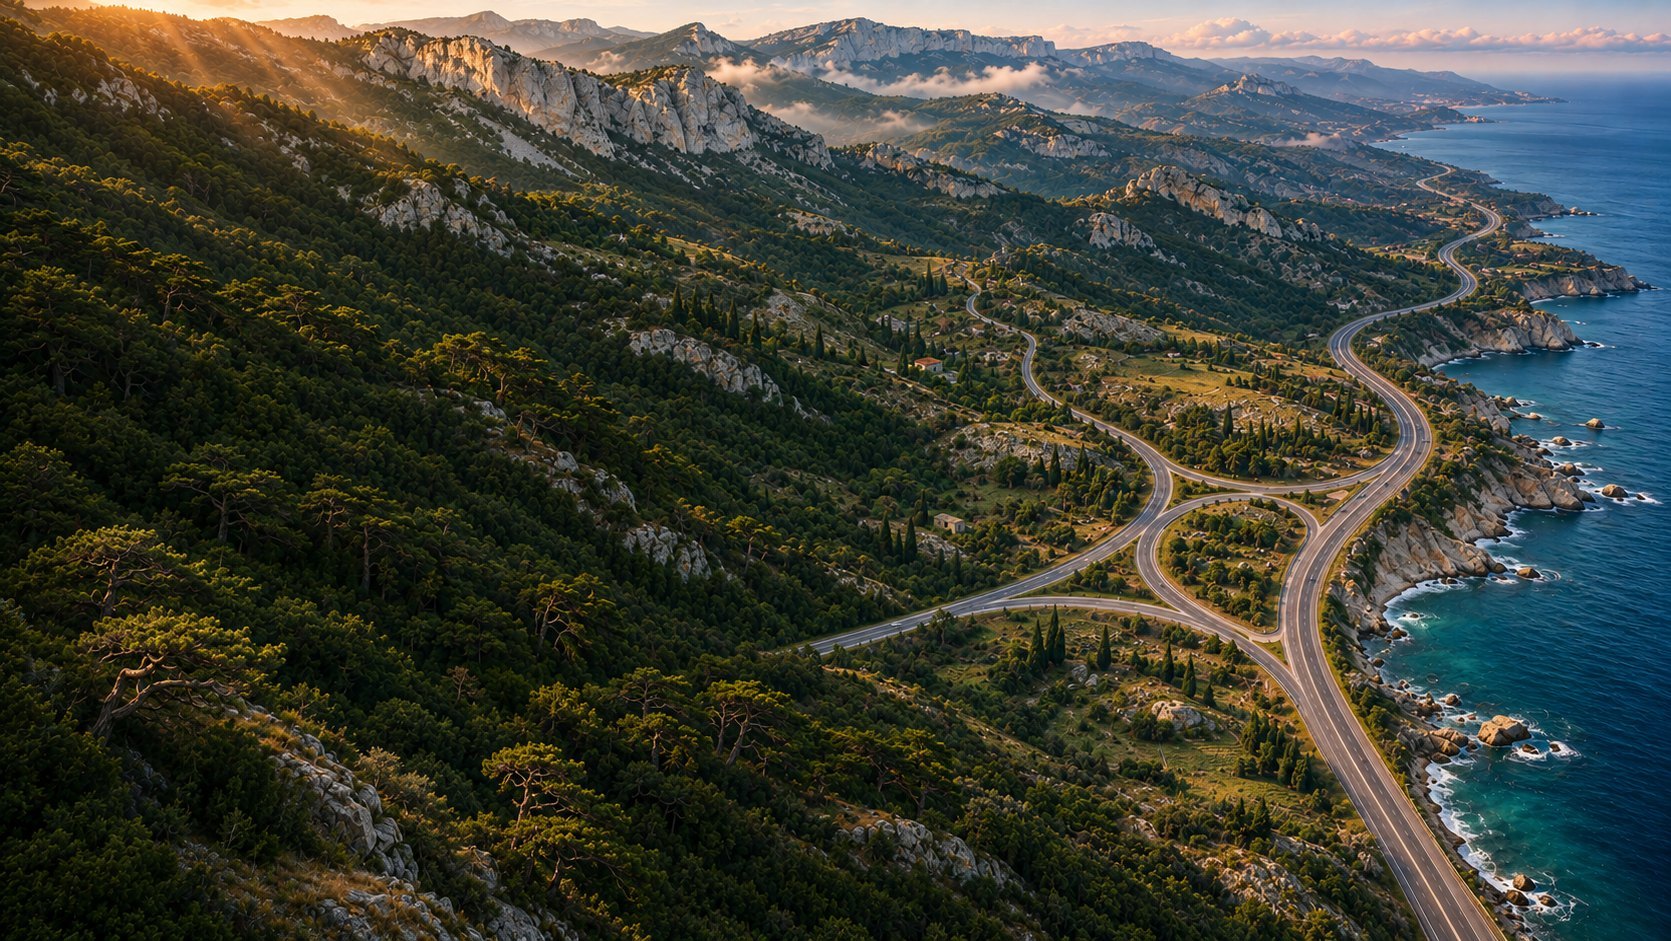
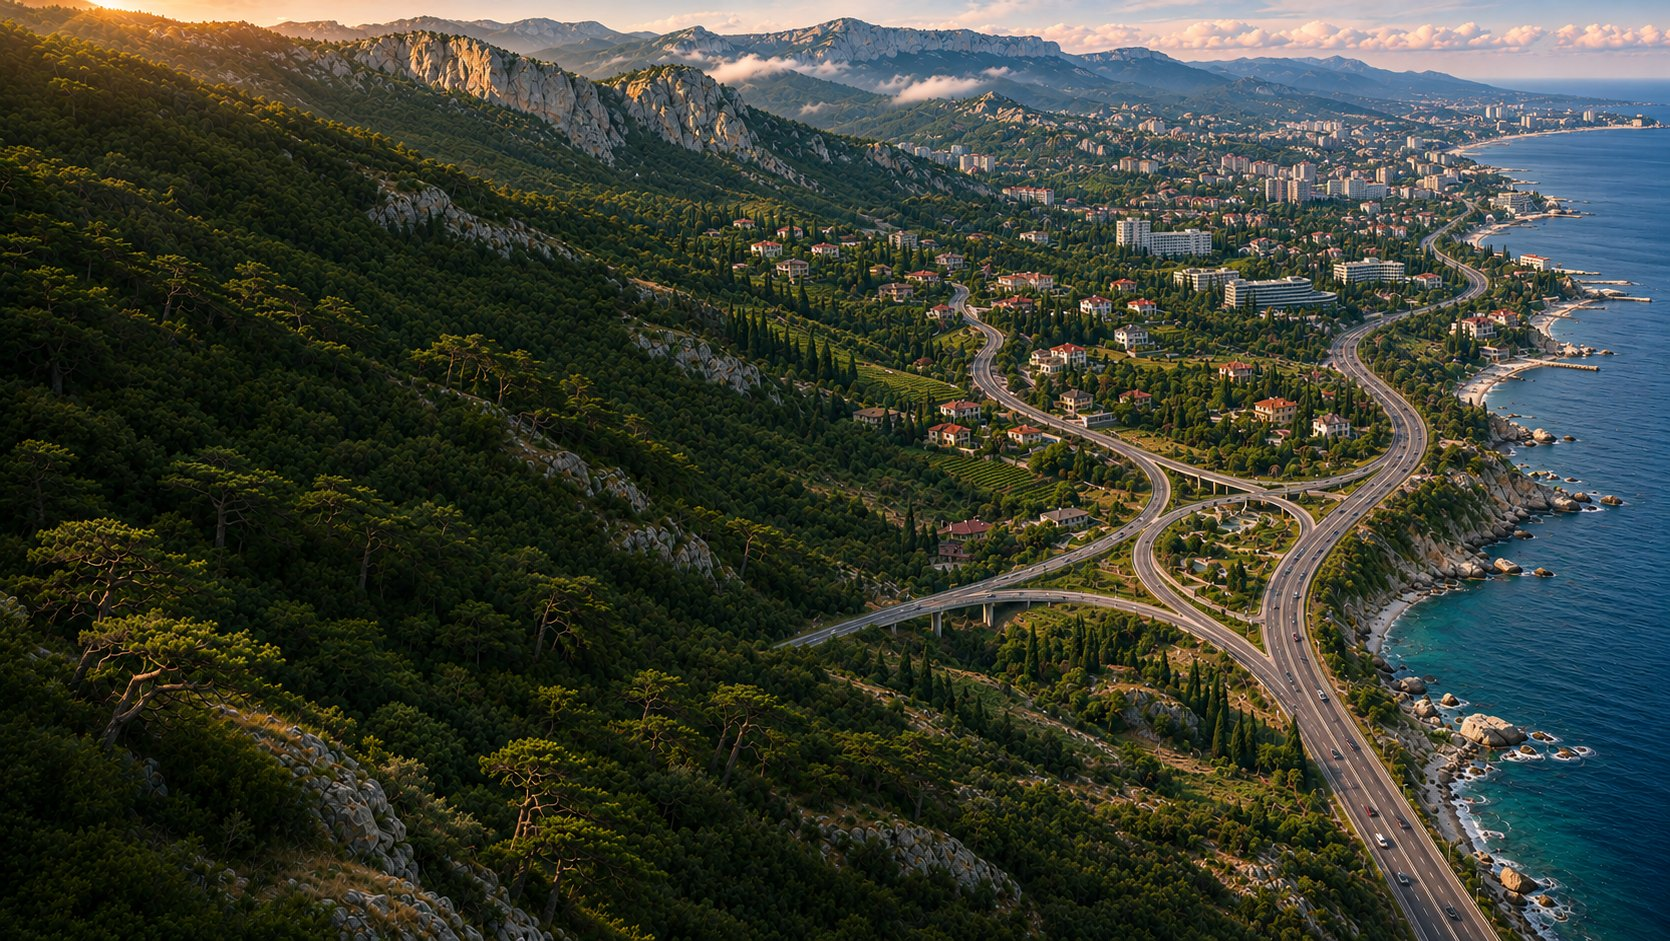
style(hero): update background and route alignment

diff --git a/src/style.css b/src/style.css
@@ -193,6 +193,10 @@
     -webkit-mask-image: linear-gradient(102deg, transparent 0%, rgba(0, 0, 0, 0.35) 34%, #000 68%);
   }
 
+  .hero-routes > svg {
+    transform: translateX(-5%);
+  }
+
   .contacts-routes {
     opacity: 0.55;
     mask-image: linear-gradient(90deg, rgba(0, 0, 0, 0.15) 0%, rgba(0, 0, 0, 0.55) 46%, #000 82%);
